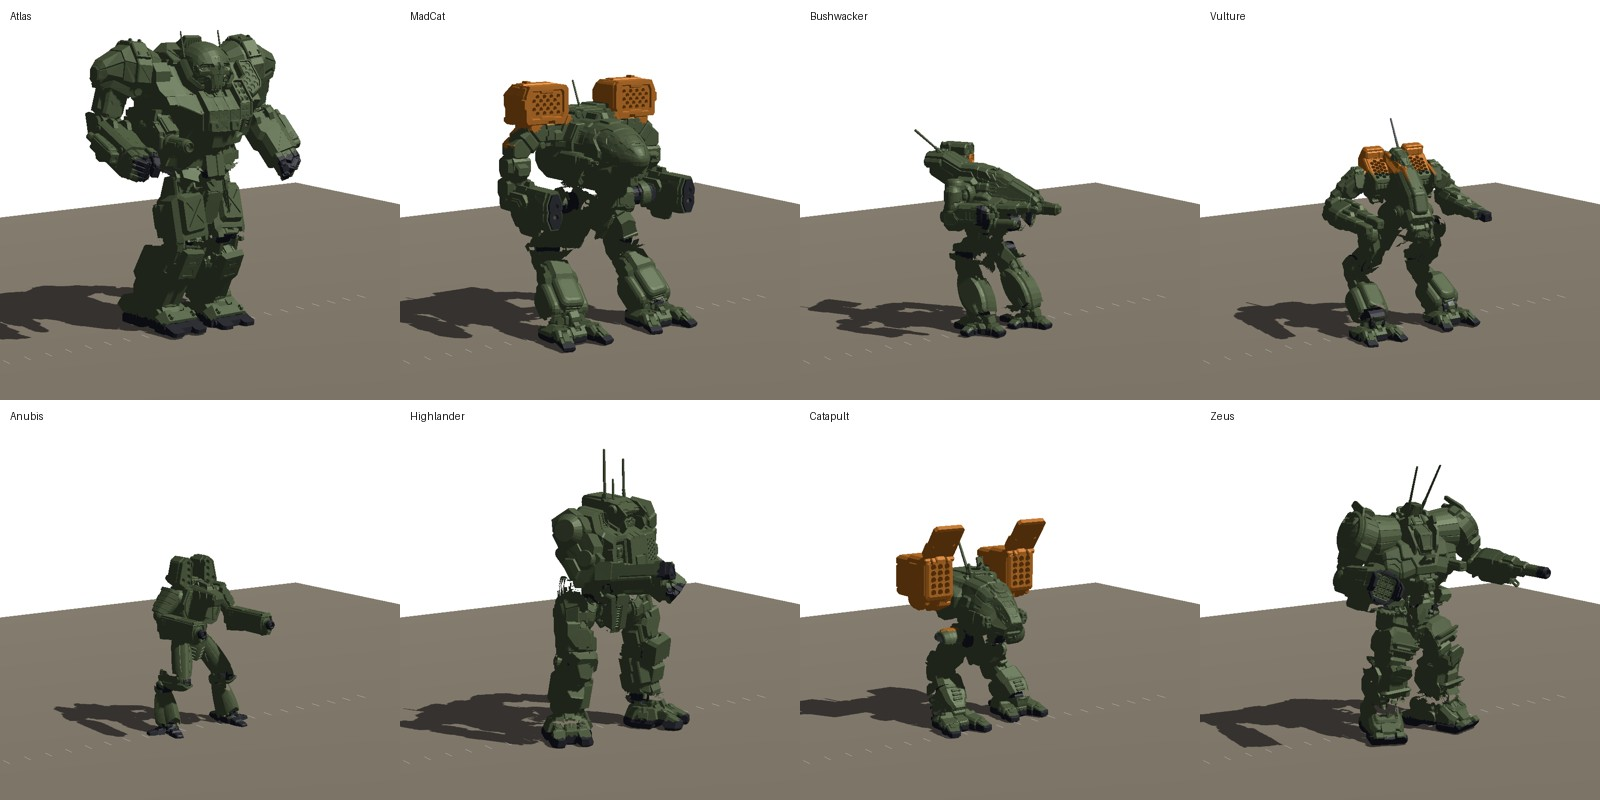
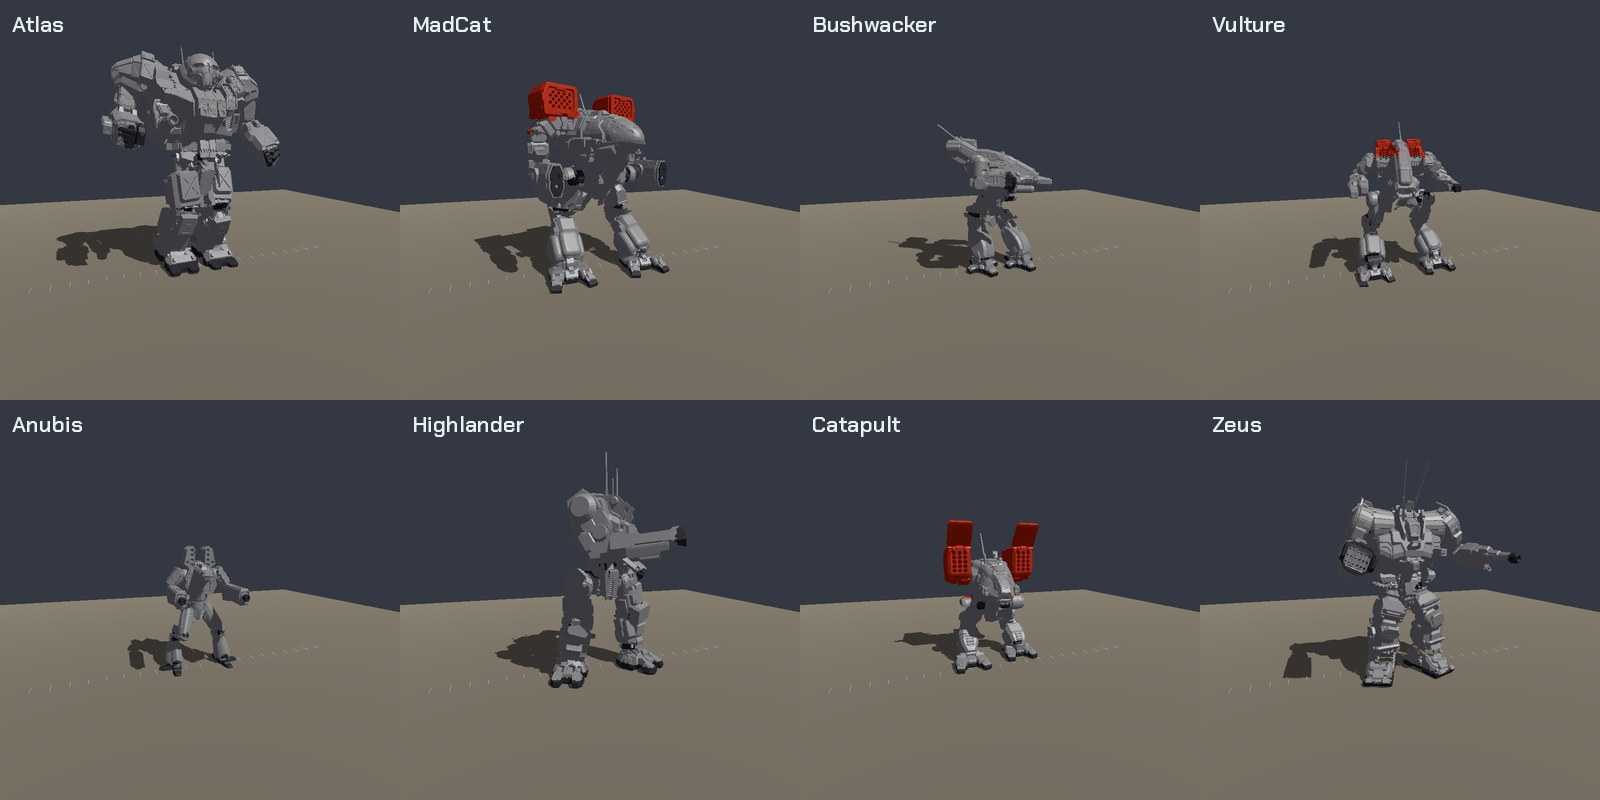
README: fresh screenshots and an up-to-date feature list
Sixteen 1600x900 shots in the default scheme with default settings:
combat (effects, enemy tag with force, subtitle, sensor rings), a turret
fort assault, briefing, Mech Bay, Mech Lab, market, pilots, Paint panel,
re-shot scenery in the new HUD, and mech/vehicle lineups. The feature
list covers the campaign screens, weapon effects, turrets, all support
powers, the HUD and optional subtitles. Dev scene dev_force_mission plays
a mission with a campaign lance (--fort, --cam-view) for screenshots.

diff --git a/README.md b/README.md
@@ -5,7 +5,7 @@ release of the game. You command a lance of up to twelve 'Mechs, plus support ve
 24-mission campaign. It has modern graphics, a rewritten simulation and the heat system the original left
 unfinished.
 
-![A lance crossing the island towards the abandoned airfield in mission 1](docs/screens/readme/battle.jpg)
+![Mission 2: a lance fighting Bandit Legion infantry, with the tactical officer on comms, sensor rings on the tac map and an enemy tag](docs/screens/readme/battle.jpg)
 
 > **Status:** work in progress. The campaign loop, combat, AI and world rendering work end to end. Art is still
 > being upgraded, and balance has not been tuned.
@@ -26,19 +26,33 @@ compiled out or inconsistent, the specs say what the remake does instead and why
 ### Campaign
 
 - **All 24 missions** of the original campaign, in order.
-- **Briefing:** a tactical map with numbered objective markers, the mission text and the tactical officer's
-  notes.
-- **Mech Bay:** deploy 'Mechs within the mission's drop weight and the 12-slot cap, assign pilots, sell reserve
-  'Mechs and buy from the mission's purchase list.
-- **Debrief:** objectives met or failed, the state of each lance member and enemy losses.
+- **Briefing:** a tactical map with the drop zone and numbered objective markers, objectives with their
+  rewards, the mission text and the tactical officer's notes. It also shows the support powers allowed, the
+  weather and the forces you will meet. The objective target turns in a small view, as in the original, and
+  the operation's briefing video plays there if you have converted it from your own disc.
+- **Mech Bay:** your hangar, with each 'Mech's pilot, loadout, ratings and a live 3D model. You deploy 'Mechs
+  within the mission's drop weight and the 12-slot cap, assign pilots, and sell or buy 'Mechs.
+- **Mech Lab:** refit any 'Mech under MechWarrior 5-style rules. Hardpoints, slots and the structure weight
+  are worked out from the stock designs, so every designer 'Mech is legal as it comes. Stripped parts go to
+  stores, and a loadout can be saved as a named variant and applied to another 'Mech of that chassis.
+- **Market:** the mission's purchase list as offer cards. Each offer has the original's description, ratings,
+  stock loadout and hardpoints, and the panel says whether a purchase joins the lance or goes to the reserve.
+- **Pilots:** a personnel screen with generated portraits, a short bio, and skill bars showing growth since
+  hire. Each pilot has a service record and a mission log of every mission flown.
+- **Paint:** one colour scheme for all your units, with presets and patterns.
+- **Debrief:** objectives met or failed, the state of each lance member and enemy losses by force.
 - **Salvage:** after a win, every disabled 'Mech on the field, your own included, can be bought back at 80% of
   its price.
-- **MechWarriors** keep their skills, specialties and wounds between missions.
+- **MechWarriors** keep their skills, specialties and mission records between missions.
 
-<p>
-  <img src="docs/screens/phase12-briefing.png" width="49%" alt="Mission briefing with tactical map and objectives">
-  <img src="docs/screens/phase12-debrief.png" width="49%" alt="Mission debrief listing objectives, lance damage and enemy losses">
-</p>
+| | |
+|---|---|
+| ![Mission briefing: objectives, tactical map with drop zone and markers, briefing text and intel](docs/screens/readme/briefing.jpg) | ![Mech Bay: hangar roster, live 'Mech model, loadout summary and the deployment strip](docs/screens/readme/bay.jpg) |
+| *Briefing* | *Mech Bay* |
+| ![Mech Lab: parts list, the eight locations with hardpoints and slots, and the refit stats](docs/screens/readme/lab.jpg) | ![Market: offer cards, the Hunchback on the stage and its full detail panel](docs/screens/readme/market.jpg) |
+| *Mech Lab* | *Market* |
+| ![Pilots: personnel list, a pilot portrait and the résumé with skills, record and mission log](docs/screens/readme/pilots.jpg) | ![Paint scheme panel over the Mech Bay](docs/screens/readme/paint.jpg) |
+| *Pilots* | *Paint* |
 
 ### Combat
 
@@ -48,12 +62,22 @@ compiled out or inconsistent, the specs say what the remake does instead and why
   the original's own tables, so weapons heat, heat sinks cool, and an overheating 'Mech shuts down.
 - **Location-based damage:** a per-unit paper doll on the unit card shows armour and internal structure for each
   location.
-- **Support powers** paid for with resource points: air strikes, sensor probes, repair trucks and salvage
-  craft.
+- **Weapon effects** for each weapon, after the original's: lasers, PPCs, autocannon tracers, missile salvos
+  and flamers, with impacts and wrecks.
+- **Bases and turrets:** turret forts, gates and sensor towers work as in the original. Capture a control
+  building and its turrets and gates fight for you.
+- **Support powers** paid for with resource points: air strikes, artillery, sensor probes, scout 'Copters,
+  minelayers, repair trucks and salvage craft.
 - **The original mission scripts and AI brains:** the remake has its own interpreter for ABL, MechCommander 2's
   scripting language. It runs the 2001 scripts for every mission's triggers, objectives, reinforcements and
   unit behaviour.
-- **A minimap, objective markers and a comms window** for mission messages.
+- **A framed HUD:** lance cards, a command panel, a systems monitor, and a tac map that draws sensor rings as
+  the original did and shows only the enemies you have contact with. Hovering over an enemy names it and its
+  force.
+- **Comms with subtitles:** mission voice-overs and pilot radio lines show the speaker and the line. The
+  subtitles are transcripts of the original's own audio and can be turned off in the pause menu.
+
+![Mission 22: a lance assaulting a Liao turret fort, missiles in the air](docs/screens/readme/fort.jpg)
 
 ### World
 
@@ -93,7 +117,8 @@ as a fallback, and records the provenance of every asset (see [docs/art-provenan
   original animations.
 - **Vehicles:** 28 HD vehicles, copters and infantry, adapted the same way, with turrets mounted on the
   original's turret joints.
-- **Paint:** every unit takes the original's three-channel team colour scheme.
+- **Paint:** enemy and allied units wear their mission's three-channel team colours. Your own units wear the
+  scheme chosen in the Mech Bay.
 - **Buildings:**
   - The original's buildings keep their geometry. Their textures are upscaled 4x with RealESRGAN.
   - Common buildings are being rebuilt as new parametric CAD models.
@@ -121,6 +146,7 @@ The first launch imports the assets, which takes a few minutes.
 | F | Alpha strike |
 | WASD, Q/E, mouse wheel | Pan, rotate and zoom the camera |
 | Click the minimap | Pan there |
+| Esc | Pause menu (HUD scale, subtitles) |
 
 To regenerate the data from the source release, put the release in `reference/mc2-source/` (it is gitignored)
 and run the converters:
